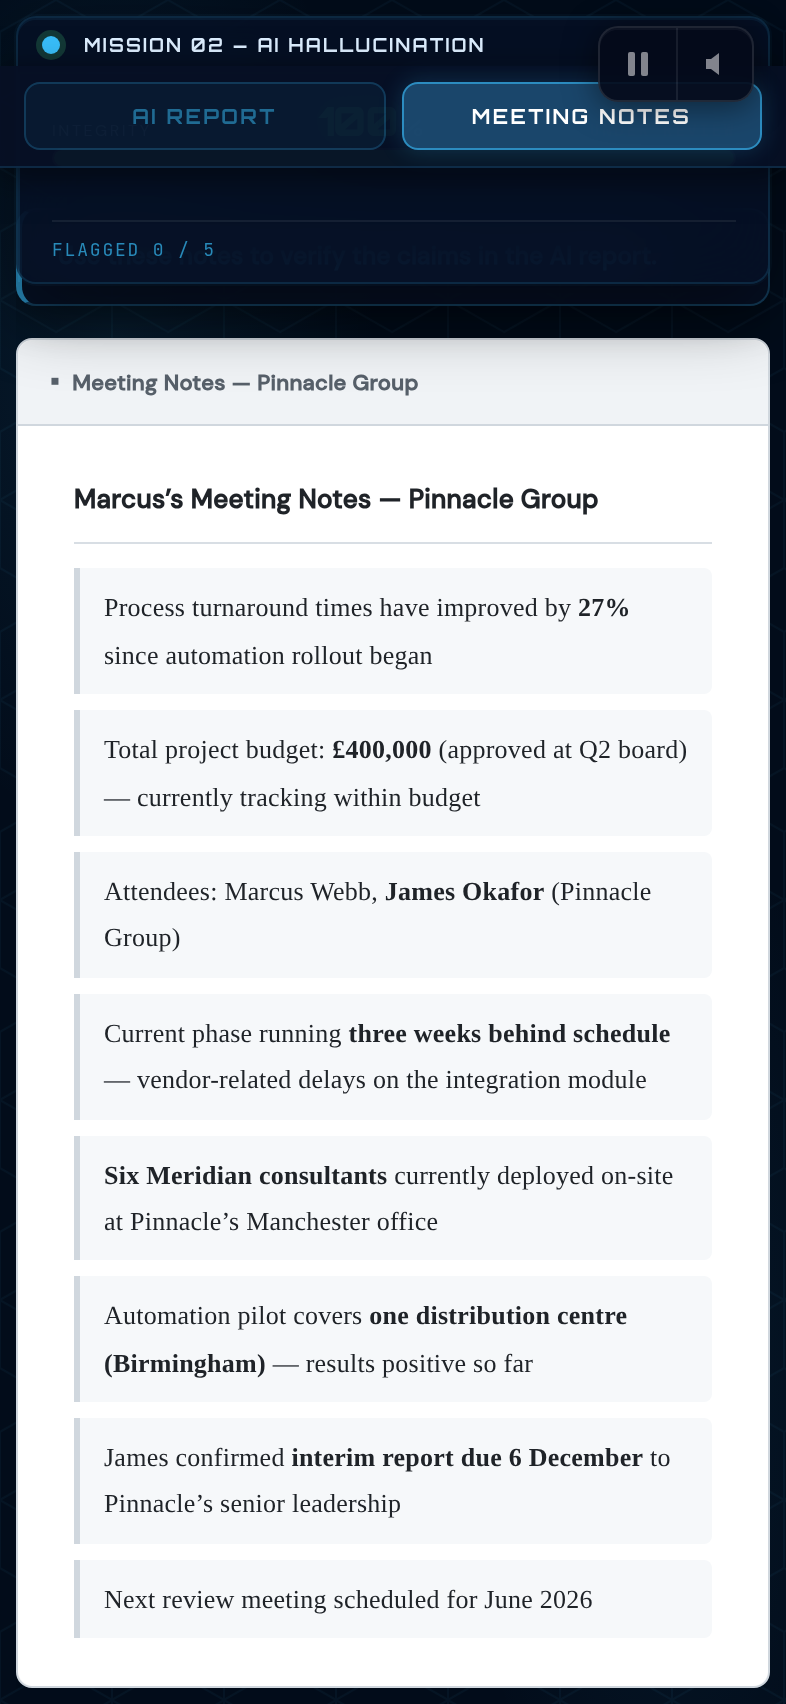
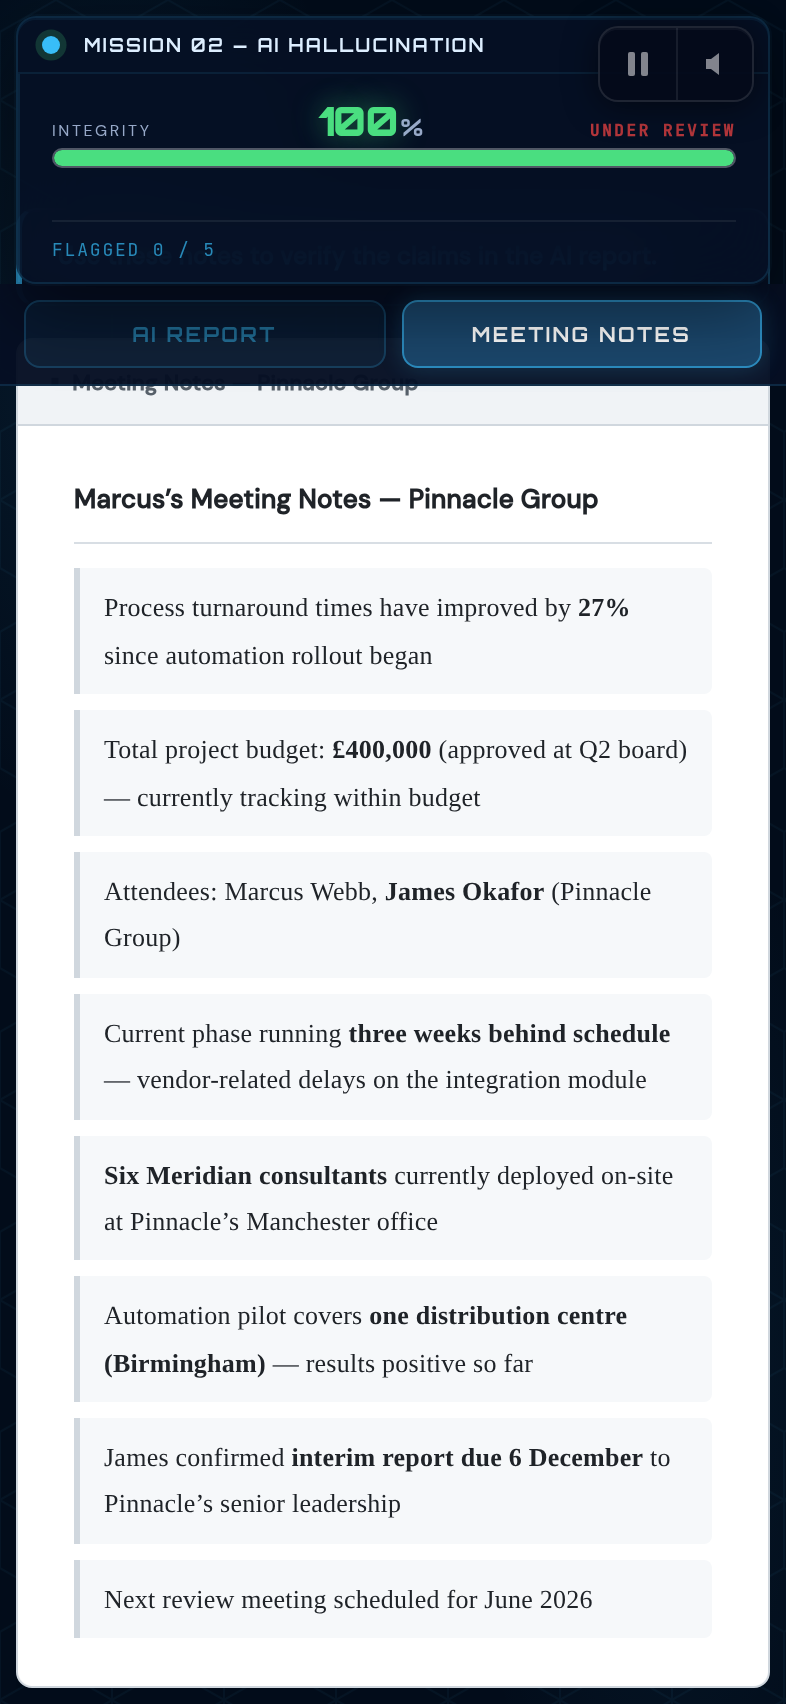
Move mobile toggle bar inside sticky-header so they scroll as one block
The toggle bar was overlapping the integrity meter because both had
position:sticky;top:0. Now the bar is a child of .sticky-header,
so header + toggle move together as one cohesive sticky unit.

https://claude.ai/code/session_01SbZAZz2DAJv4UdDQzkKcvh

Changed region(s): [[0.0, 0.1555, 0.9771, 0.2488], [0.0611, 0.0311, 0.9771, 0.1244], [0.0, 0.0622, 0.0305, 0.0933]]

diff --git a/index.html b/index.html
@@ -852,11 +852,9 @@ html, body { width:100%; height:100%; background:#020610; font-family:'DM Sans',
 @media(max-width:768px){
   .s2-mobile-bar {
     display:flex; gap:8px;
-    position:sticky; top:0; z-index:50;
     background:rgba(6,16,36,.97);
     padding:8px 12px;
     border-bottom:1px solid rgba(56,189,248,.15);
-    box-shadow:0 4px 16px rgba(0,0,0,.5);
   }
   /* Hide inline toggles on mobile — the sticky bar replaces them */
   .s2-view-toggle { display:none !important; }
@@ -2302,12 +2300,11 @@ html, body { width:100%; height:100%; background:#020610; font-family:'DM Sans',
     </div>
   </div>
 </div>
-</div>
-
-<!-- Mobile-only sticky toggle for M2 report/notes switching -->
+<!-- Mobile-only sticky toggle for M2 report/notes switching — inside sticky-header so they move as one block -->
 <div class="s2-mobile-bar" id="s2MobileBar">
   <button class="s2-view-btn active" id="s2mbReport" onclick="s2SwitchView('report')">AI Report</button>
   <button class="s2-view-btn pulsing" id="s2mbNotes" onclick="s2SwitchView('notes')">Meeting Notes</button>
+</div>
 </div>
 
 <div class="shell">
